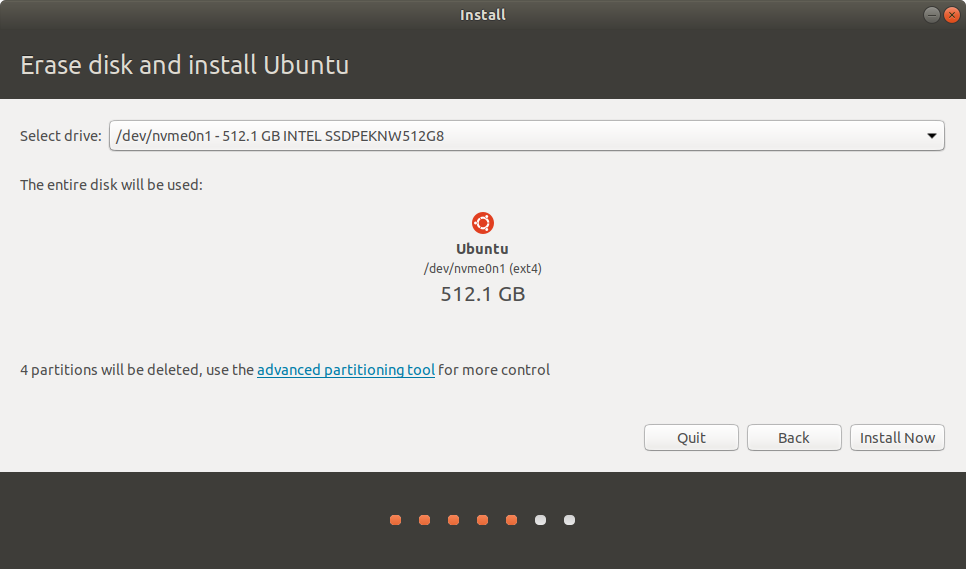
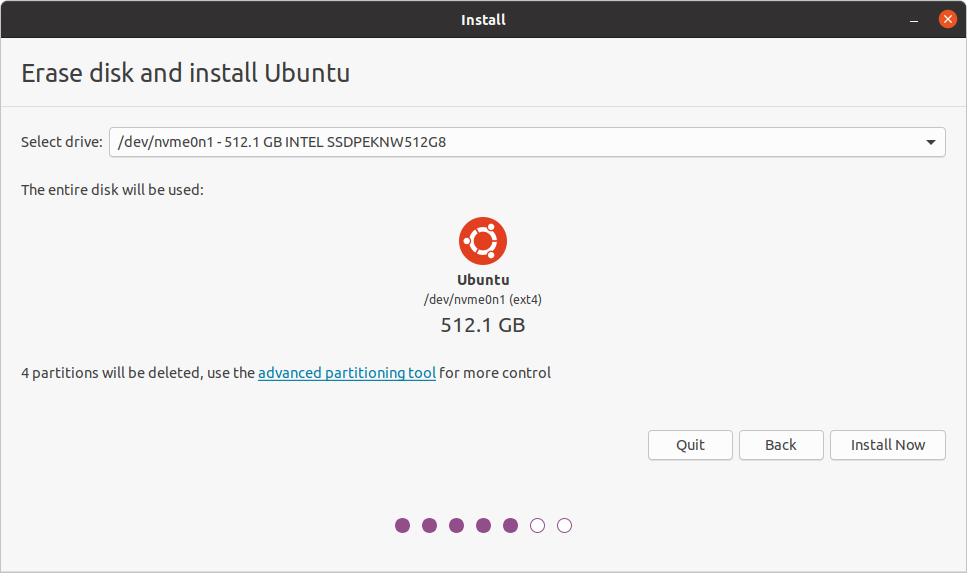
Replacing images, updating installation
New screenshots for 20.04, new bitlocker screen

diff --git a/Sections/Installation.md b/Sections/Installation.md
@@ -12,7 +12,7 @@ __Note: The network screen may or may not appear Depending on whether or not you
 
 ![Network Selection](../Images/Installation/NetworkScreen.png)
 
-__Note: The option for installing third party software (marked in red), should be selected to set up the nvidia drivers and optimus.__
+__Note: The option for installing third party software is optional, however it is recommended to select this.__
 
 ![Update Options](../Images/Installation/UpdateOptions.png)
 
